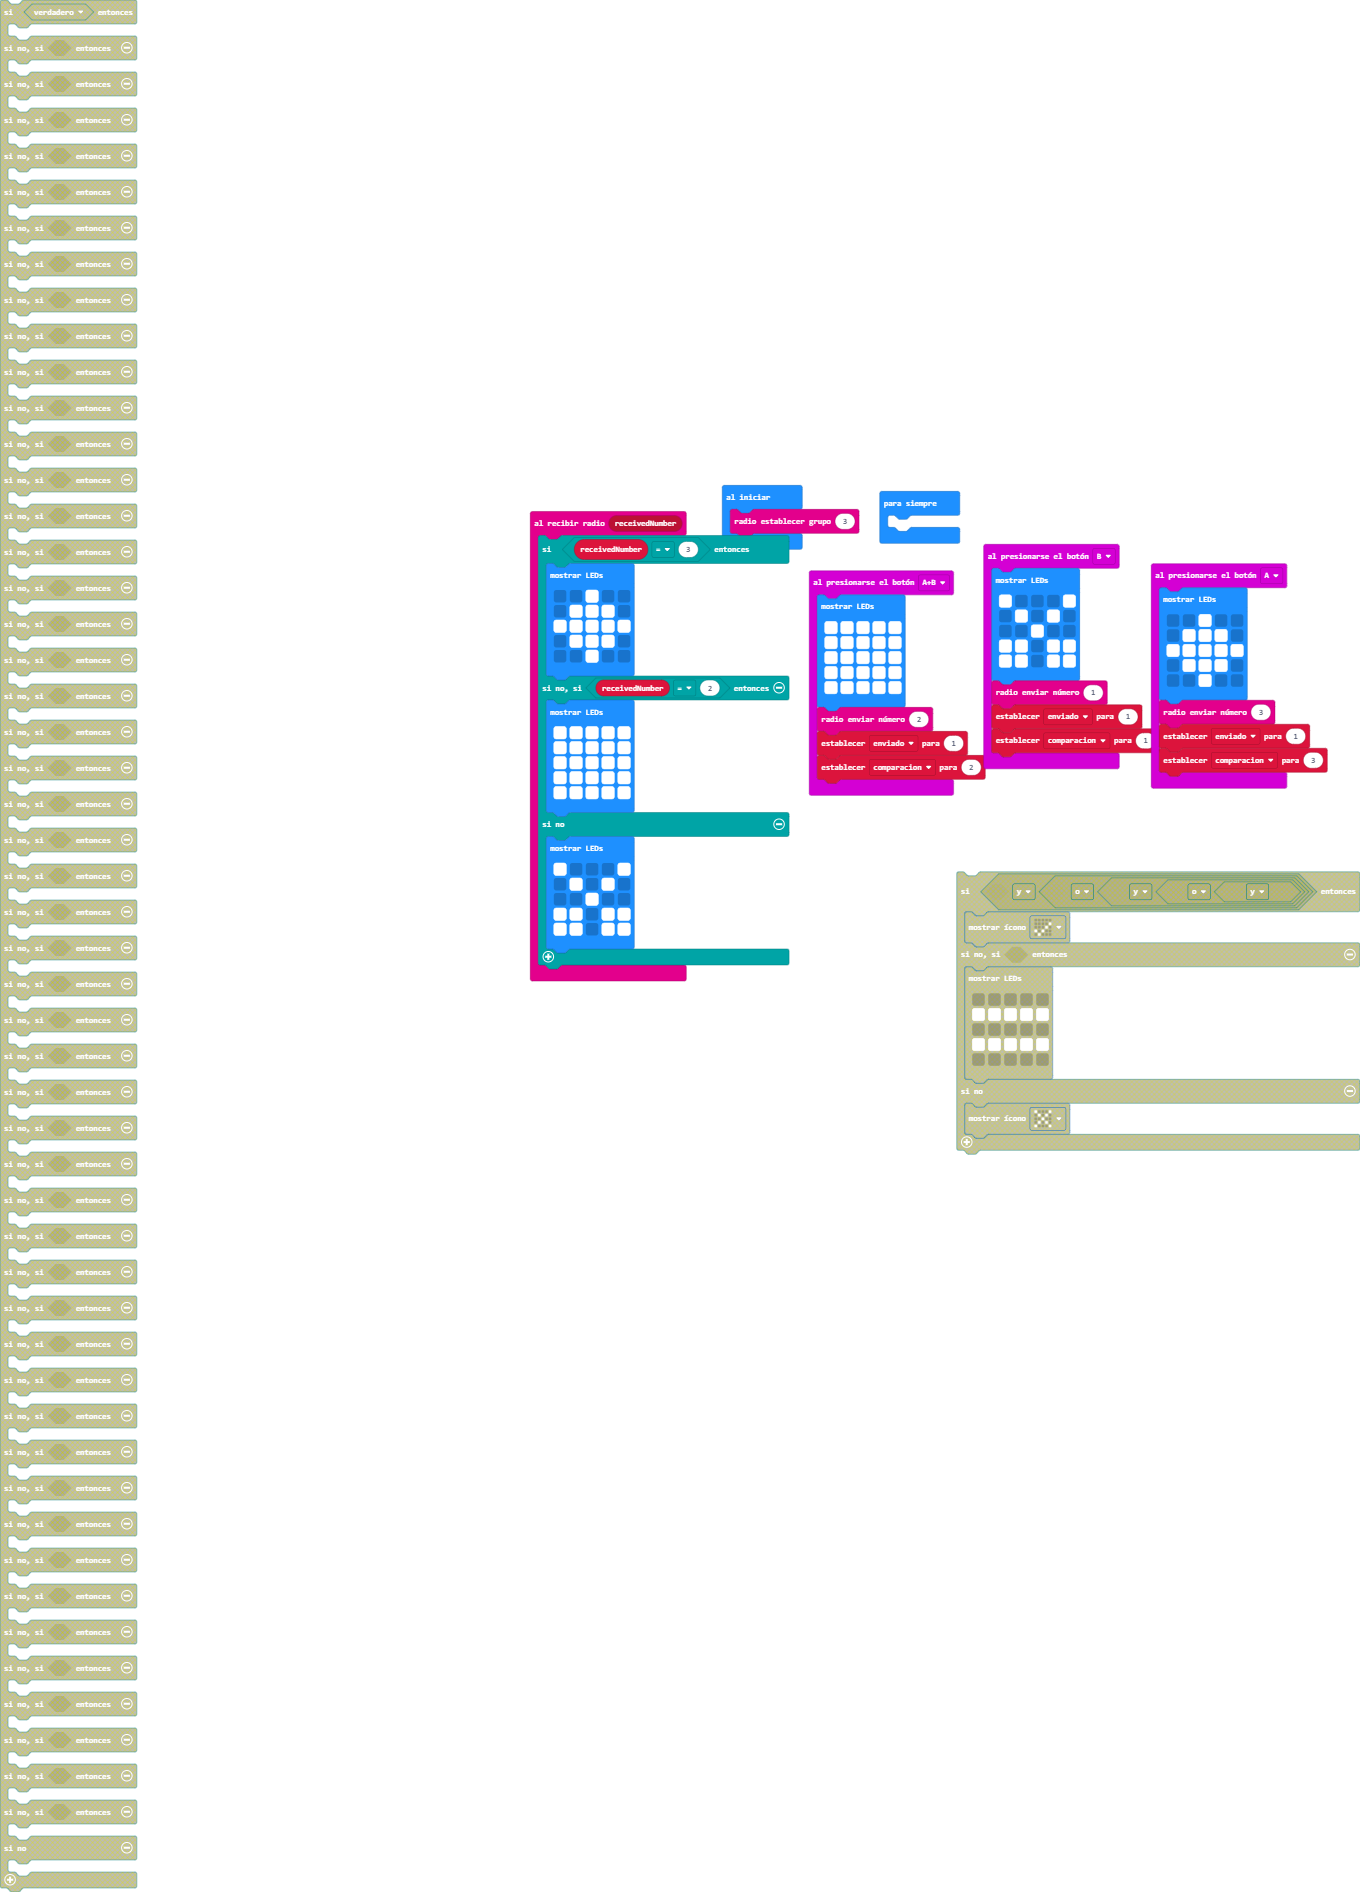
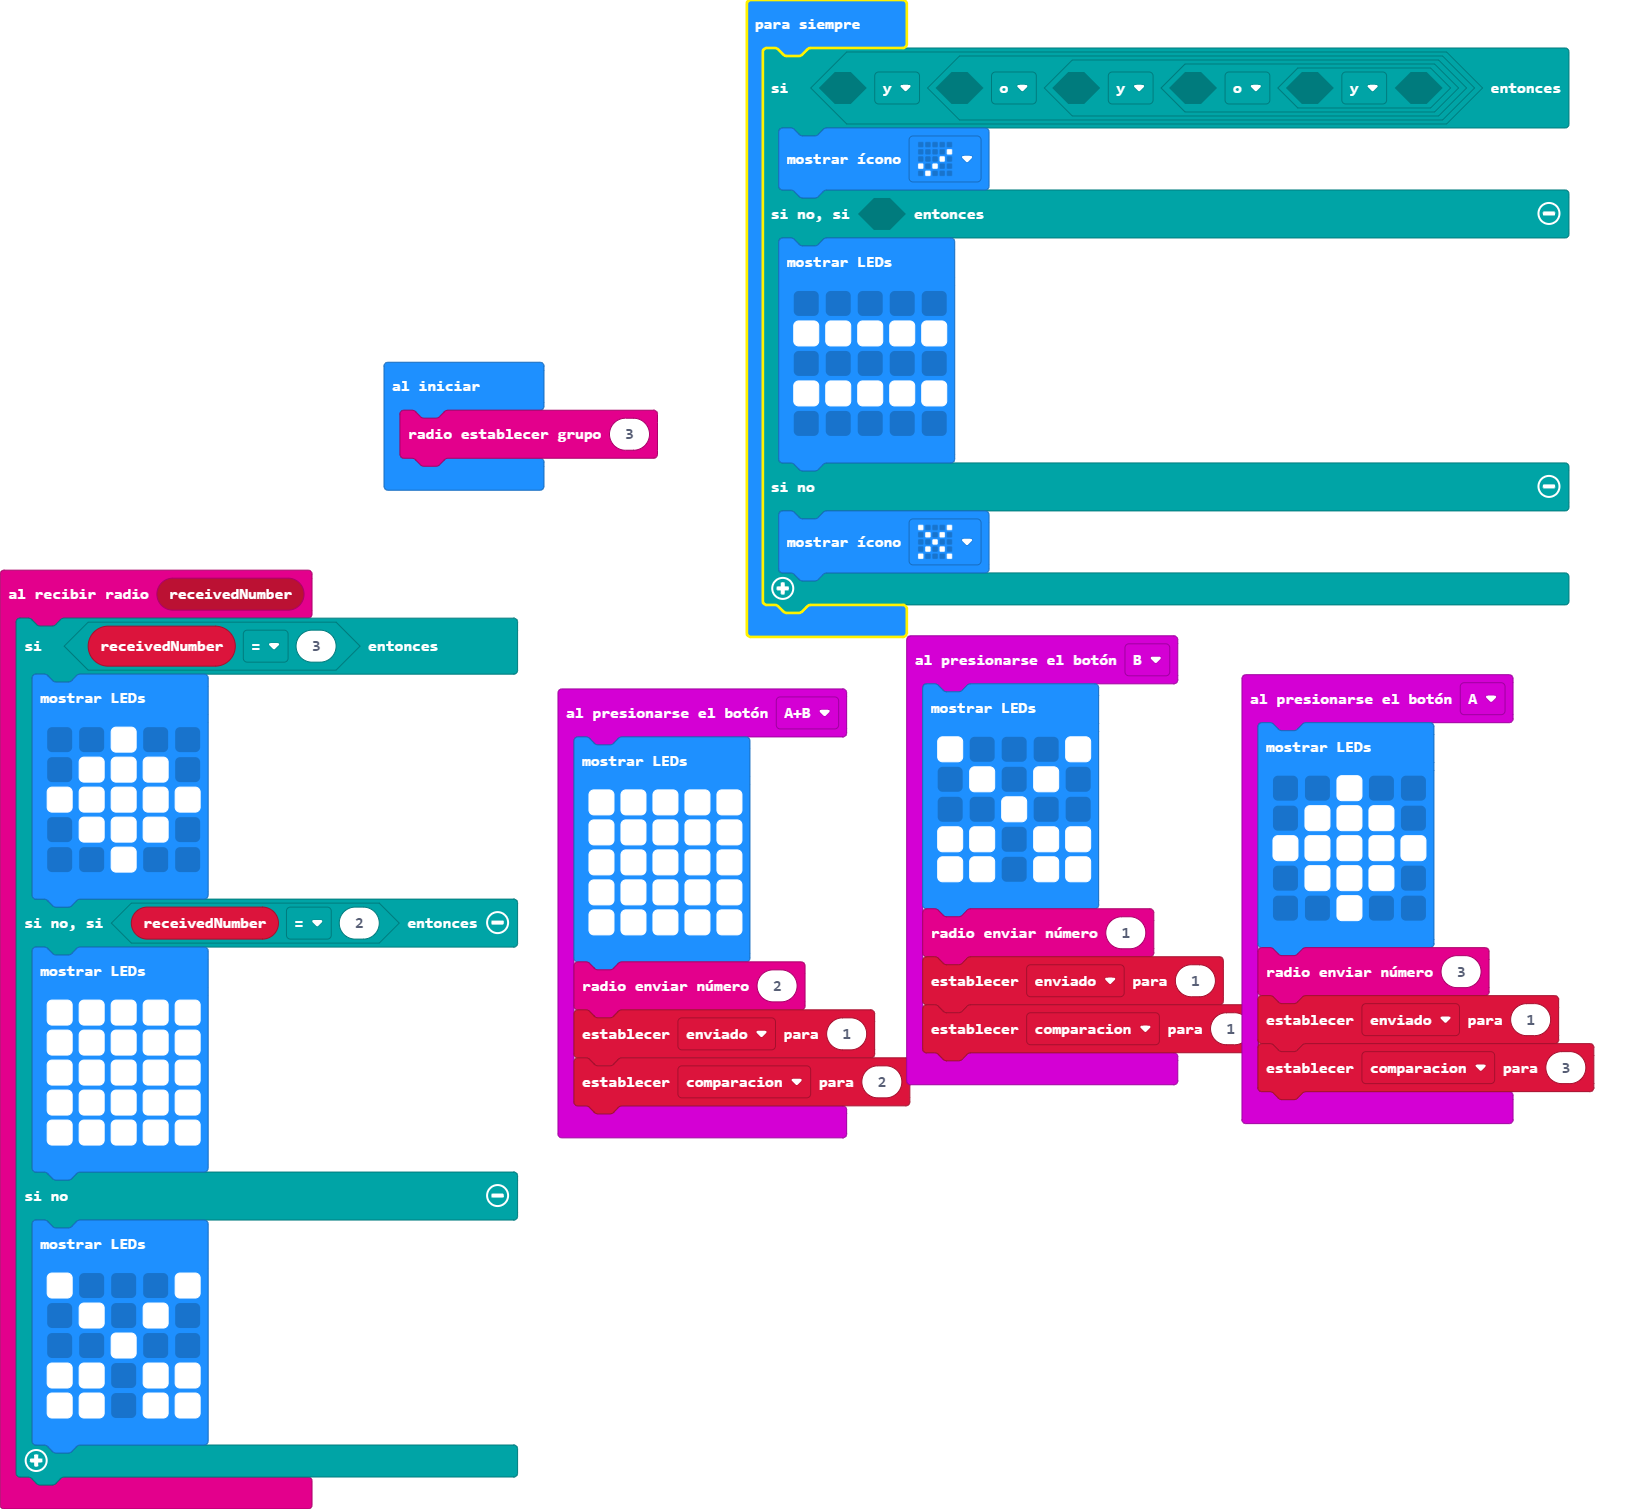
Actualizar main.blocks, main.ts

diff --git a/main.ts b/main.ts
@@ -65,5 +65,17 @@ let comparacion = 0
 let enviado = 0
 radio.setGroup(3)
 basic.forever(function () {
-	
+    if (false && (false || false && (false || false && false))) {
+        basic.showIcon(IconNames.Yes)
+    } else if (false) {
+        basic.showLeds(`
+            . . . . .
+            # # # # #
+            . . . . .
+            # # # # #
+            . . . . .
+            `)
+    } else {
+        basic.showIcon(IconNames.No)
+    }
 })
